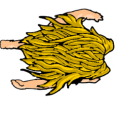
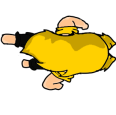
different player connexion

diff --git a/game/src/fr/application/Application.java b/game/src/fr/application/Application.java
@@ -42,8 +42,10 @@ public class Application implements Runnable {
 	private Thread myThread;
 
 	/**
-	 * @param width  : Largeur de la fenetre
-	 * @param height : Hauteur de la fenetre
+	 * @param width
+	 *            : Largeur de la fenetre
+	 * @param height
+	 *            : Hauteur de la fenetre
 	 */
 	public Application(int width, int height, String mapName) {
 		this.players = new HashMap<>();
@@ -56,7 +58,7 @@ public class Application implements Runnable {
 		this.myThread = new Thread(this);
 
 		// Chargement de la map depuis le fichier "/maps/1.bmap"
-		this.map = new GameMap("/maps/"+mapName+".bmap");
+		this.map = new GameMap("/maps/" + mapName + ".bmap");
 		this.spawnPlaces = this.map.getSpawnPoints();
 		this.currentSpawnPoint = 0;
 	}
@@ -64,7 +66,8 @@ public class Application implements Runnable {
 	/**
 	 * Ajoute une bombe a la liste des bombes
 	 *
-	 * @param bomb : bombe a ajouter
+	 * @param bomb
+	 *            : bombe a ajouter
 	 */
 	public void addBomb(IBomb bomb) {
 		this.bombs.add(bomb);
@@ -73,7 +76,8 @@ public class Application implements Runnable {
 	/**
 	 * Ajout d'un element Drawable a l'application
 	 *
-	 * @param drawable : Drawable a ajouter
+	 * @param drawable
+	 *            : Drawable a ajouter
 	 */
 	public void addDrawable(Drawable drawable) {
 		this.drawables.add(drawable);
@@ -82,7 +86,8 @@ public class Application implements Runnable {
 	/**
 	 * Ajoute une Explosion
 	 *
-	 * @param explosion : Explosion a ajouter
+	 * @param explosion
+	 *            : Explosion a ajouter
 	 */
 	public void addExplosion(IExplosion explosion) {
 		this.explosions.add(explosion);
@@ -91,7 +96,8 @@ public class Application implements Runnable {
 	/**
 	 * Ajoute un Item
 	 *
-	 * @param item : Item a ajouter
+	 * @param item
+	 *            : Item a ajouter
 	 */
 	public void addItem(PlaceableItem item) {
 		this.items.add(item);
@@ -100,7 +106,8 @@ public class Application implements Runnable {
 	/**
 	 * Ajout d'un element Manageable a l'application
 	 *
-	 * @param manageable : Manageable a ajouter
+	 * @param manageable
+	 *            : Manageable a ajouter
 	 */
 	public void addManageable(Manageable manageable) {
 		this.manageables.add(manageable);
@@ -109,7 +116,8 @@ public class Application implements Runnable {
 	/**
 	 * Ajout d'un joueur a l'application
 	 *
-	 * @param c : Couleur aleatoire du joueur
+	 * @param c
+	 *            : Couleur aleatoire du joueur
 	 * @return : Id du joueur cree
 	 */
 	public void addPlayer(int no) {
@@ -119,7 +127,23 @@ public class Application implements Runnable {
 		Point spawnPlace = this.spawnPlaces.get(this.currentSpawnPoint);
 		this.currentSpawnPoint = (this.currentSpawnPoint + 1) % this.spawnPlaces.size();
 
-		ICharacter character = CharacterFactory.getInstance().create("red");
+		ICharacter character = null;
+		switch (players.size()) {
+		case 0:
+			character = CharacterFactory.getInstance().create("red");
+			break;
+		case 1:
+			character = CharacterFactory.getInstance().create("blue");
+			break;
+		case 2:
+			character = CharacterFactory.getInstance().create("green");
+			break;
+		case 3:
+			character = CharacterFactory.getInstance().create("yellow");
+			break;
+
+		}
+
 		character.setPos(new Point(spawnPlace.x, spawnPlace.y));
 		character.setId(id);
 
@@ -145,13 +169,7 @@ public class Application implements Runnable {
 			this.removeManageable(character);
 		}
 	}
-	
-	/**
-	 * Renvoie le nombre de joueurs en vie
-	 */
-	public int getPlayersNb() {
-		return this.players.size();
-	}
+
 	/**
 	 * @return La liste de toutes les bombes
 	 */
@@ -202,11 +220,24 @@ public class Application implements Runnable {
 		return null;
 	}
 
+	public ArrayList<Integer> getPlayersKeys() {
+		return new ArrayList<Integer>(this.players.keySet());
+	}
+
+	/**
+	 * Renvoie le nombre de joueurs en vie
+	 */
+	public int getPlayersNb() {
+		return this.players.size();
+	}
+
 	/**
 	 * Gere les actions du Joueur
 	 *
-	 * @param id          : Id du joueur
-	 * @param clickedKeys : Touches active du clavier du joueur
+	 * @param id
+	 *            : Id du joueur
+	 * @param clickedKeys
+	 *            : Touches active du clavier du joueur
 	 */
 	public boolean managePlayer(int id, List<Integer> clickedKeys) {
 		ICharacter character = this.players.get(id);
@@ -220,7 +251,8 @@ public class Application implements Runnable {
 	/**
 	 * Supprime une bombe de la liste des bombes
 	 *
-	 * @param bomb : la bombe a supprimer
+	 * @param bomb
+	 *            : la bombe a supprimer
 	 */
 	public void removeBomb(IBomb bomb) {
 		this.bombs.remove(bomb);
@@ -229,7 +261,8 @@ public class Application implements Runnable {
 	/**
 	 * Supprime un Drawable de l'application
 	 *
-	 * @param drawable : Drawable a supprimer
+	 * @param drawable
+	 *            : Drawable a supprimer
 	 */
 	public void removeDrawable(Drawable drawable) {
 		this.drawables.remove(drawable);
@@ -238,7 +271,8 @@ public class Application implements Runnable {
 	/**
 	 * Enleve une explosion de la liste d'explosions
 	 *
-	 * @param explosion : explosion a enlever
+	 * @param explosion
+	 *            : explosion a enlever
 	 */
 	public void removeExplosion(IExplosion explosion) {
 		this.explosions.remove(explosion);
@@ -247,7 +281,8 @@ public class Application implements Runnable {
 	/**
 	 * Enleve un item de la liste d'item
 	 *
-	 * @param item : item a enlever
+	 * @param item
+	 *            : item a enlever
 	 */
 	public void removeItem(PlaceableItem item) {
 		this.items.remove(item);
@@ -256,7 +291,8 @@ public class Application implements Runnable {
 	/**
 	 * Supprime un Manageable de l'application
 	 *
-	 * @param manageable : Manageable a supprimer
+	 * @param manageable
+	 *            : Manageable a supprimer
 	 */
 	public void removeManageable(Manageable manageable) {
 		this.manageables.remove(manageable);
@@ -295,9 +331,5 @@ public class Application implements Runnable {
 
 	public void stop() {
 		this.myThread.interrupt();
-	}
-
-	public ArrayList<Integer> getPlayersKeys() {
-		return new ArrayList<Integer>(this.players.keySet());
 	}
 }

diff --git a/game/src/fr/itemsApp/character/CharacterFactory.java b/game/src/fr/itemsApp/character/CharacterFactory.java
@@ -31,6 +31,12 @@ public class CharacterFactory {
 	public ICharacter create(String type) {
 		switch (type.toLowerCase()) {
 		case "red":
+			return new CharacterRed(0, 0, 100, 1400, 500);
+		case "blue":
+			return new CharacterBlue(0, 0, 100, 1400, 500);
+		case "green":
+			return new CharacterGreen(0, 0, 100, 1400, 500);
+		case "yellow":
 			return new CharacterYellow(0, 0, 100, 1400, 500);
 		}
 		return null;
